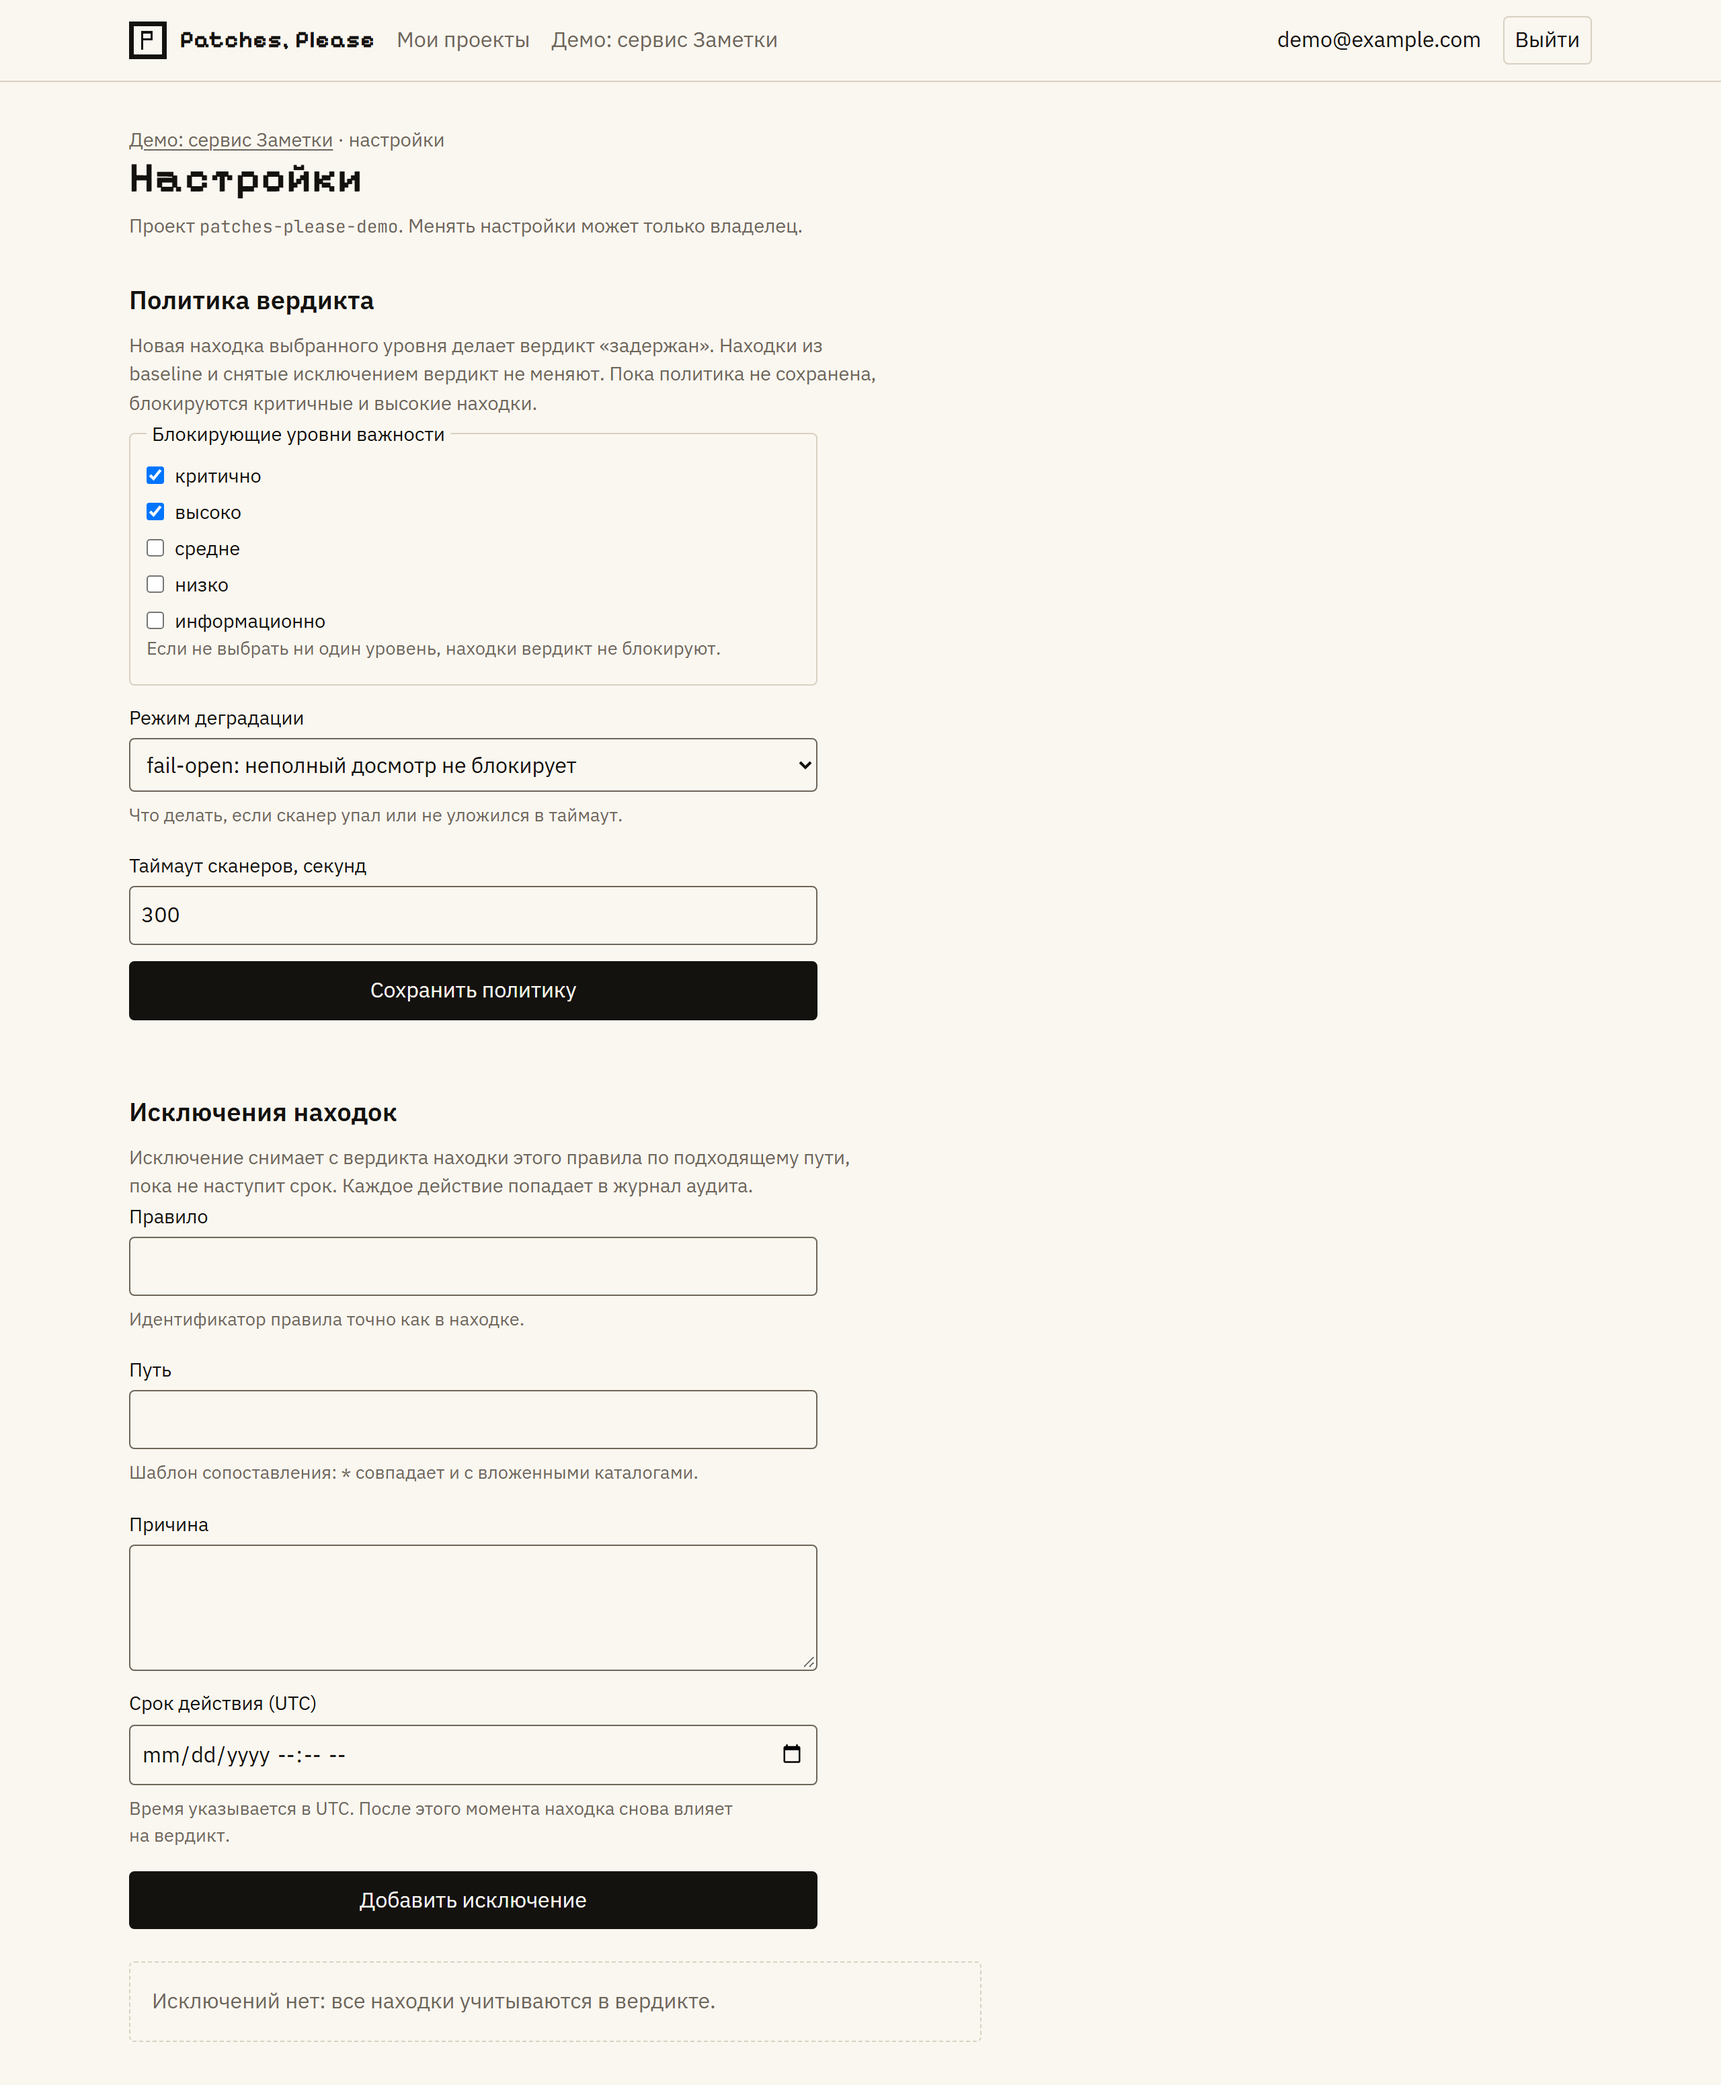
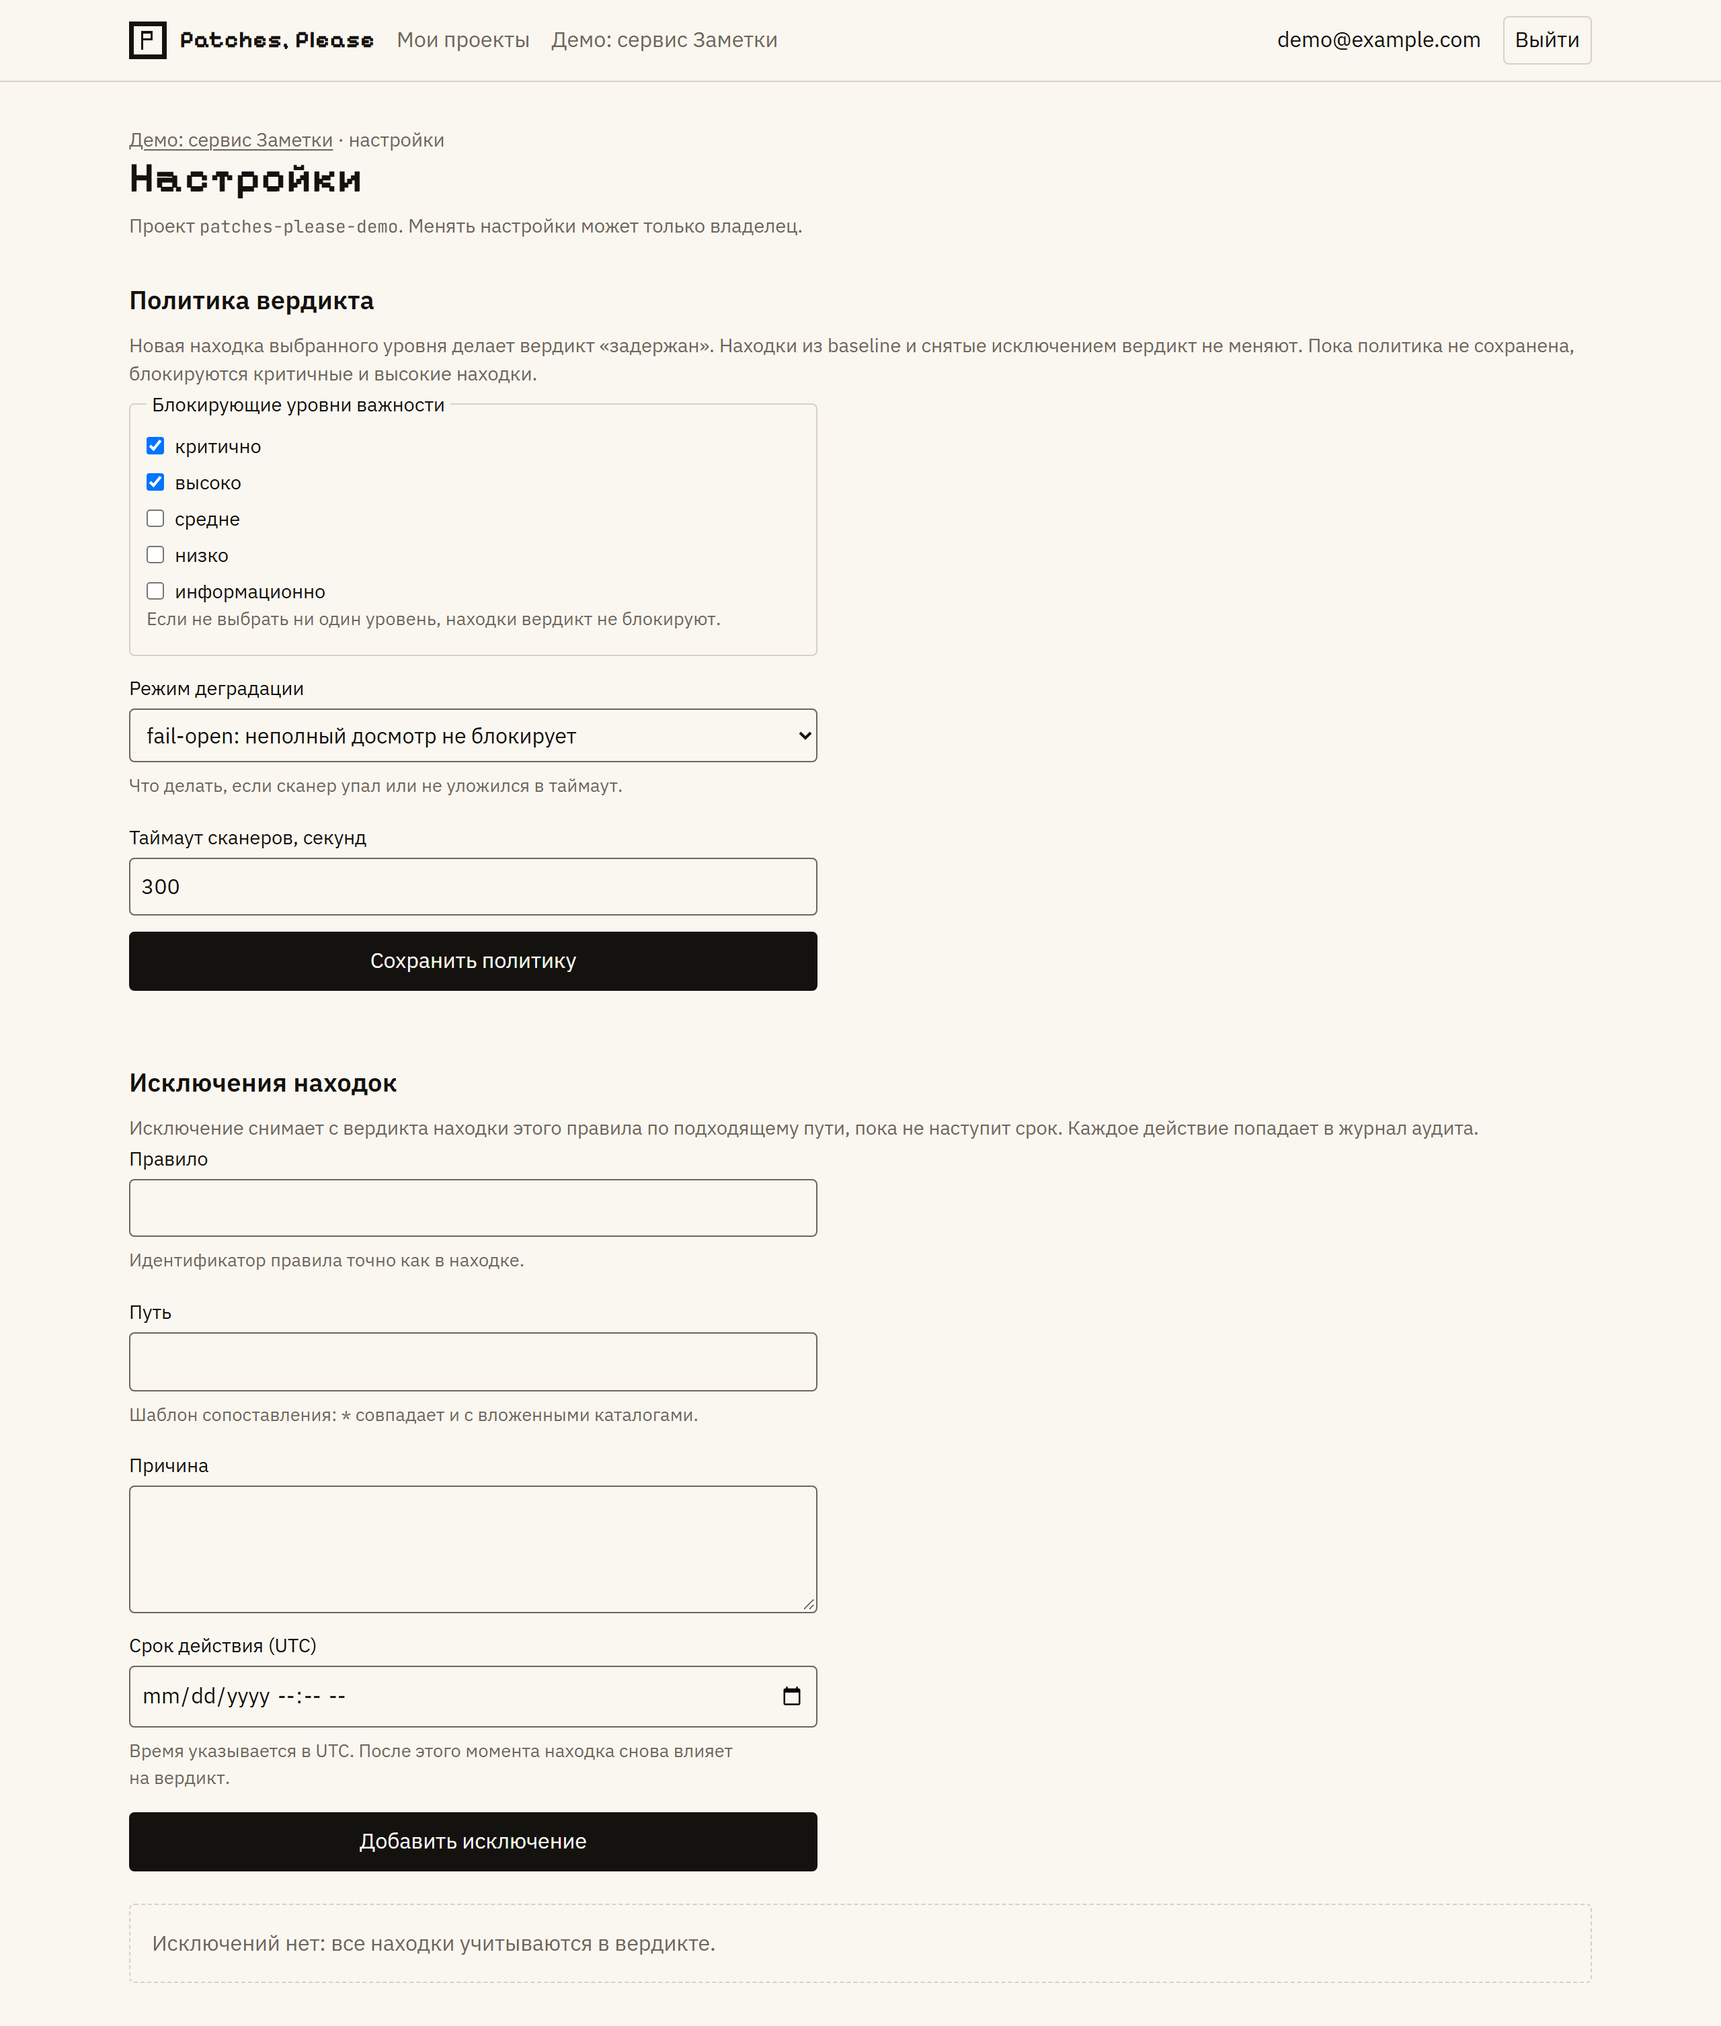
fix: текст занимает ту же ширину, что таблицы
Убрал ограничение абзацев, списков и значений определений в 66 знаков:
в приложении текст снова идёт по всей колонке страницы, как таблицы и
шапка. Проверка на 1280 px: абзац 1088 px, таблица 1088 px.

Скриншоты пересняты, WebP для сайта обновлены.

diff --git a/patches_please/templates/static/brand.css b/patches_please/templates/static/brand.css
@@ -39,7 +39,7 @@
   --font-mono: "JetBrains Mono", ui-monospace, "Cascadia Mono", Consolas, monospace;
 
   --radius: 0.25rem;
-  /* Строка текста: 66 знаков. Дальше глаз теряет начало следующей строки. */
+  /* Ширина текста внутри блоков, где она нужна (подсказки, поля). */
   --measure: 66ch;
 }
 
@@ -93,14 +93,6 @@ code {
   font-family: var(--font-mono);
   font-size: 0.9em;
   overflow-wrap: break-word;
-}
-
-/* Текстовая колонка уже страницы: на широком мониторе строка не растягивается
-   на весь экран. Таблицы, снимки и код живут по своим правилам. */
-p,
-li,
-dd {
-  max-width: var(--measure);
 }
 
 p {
